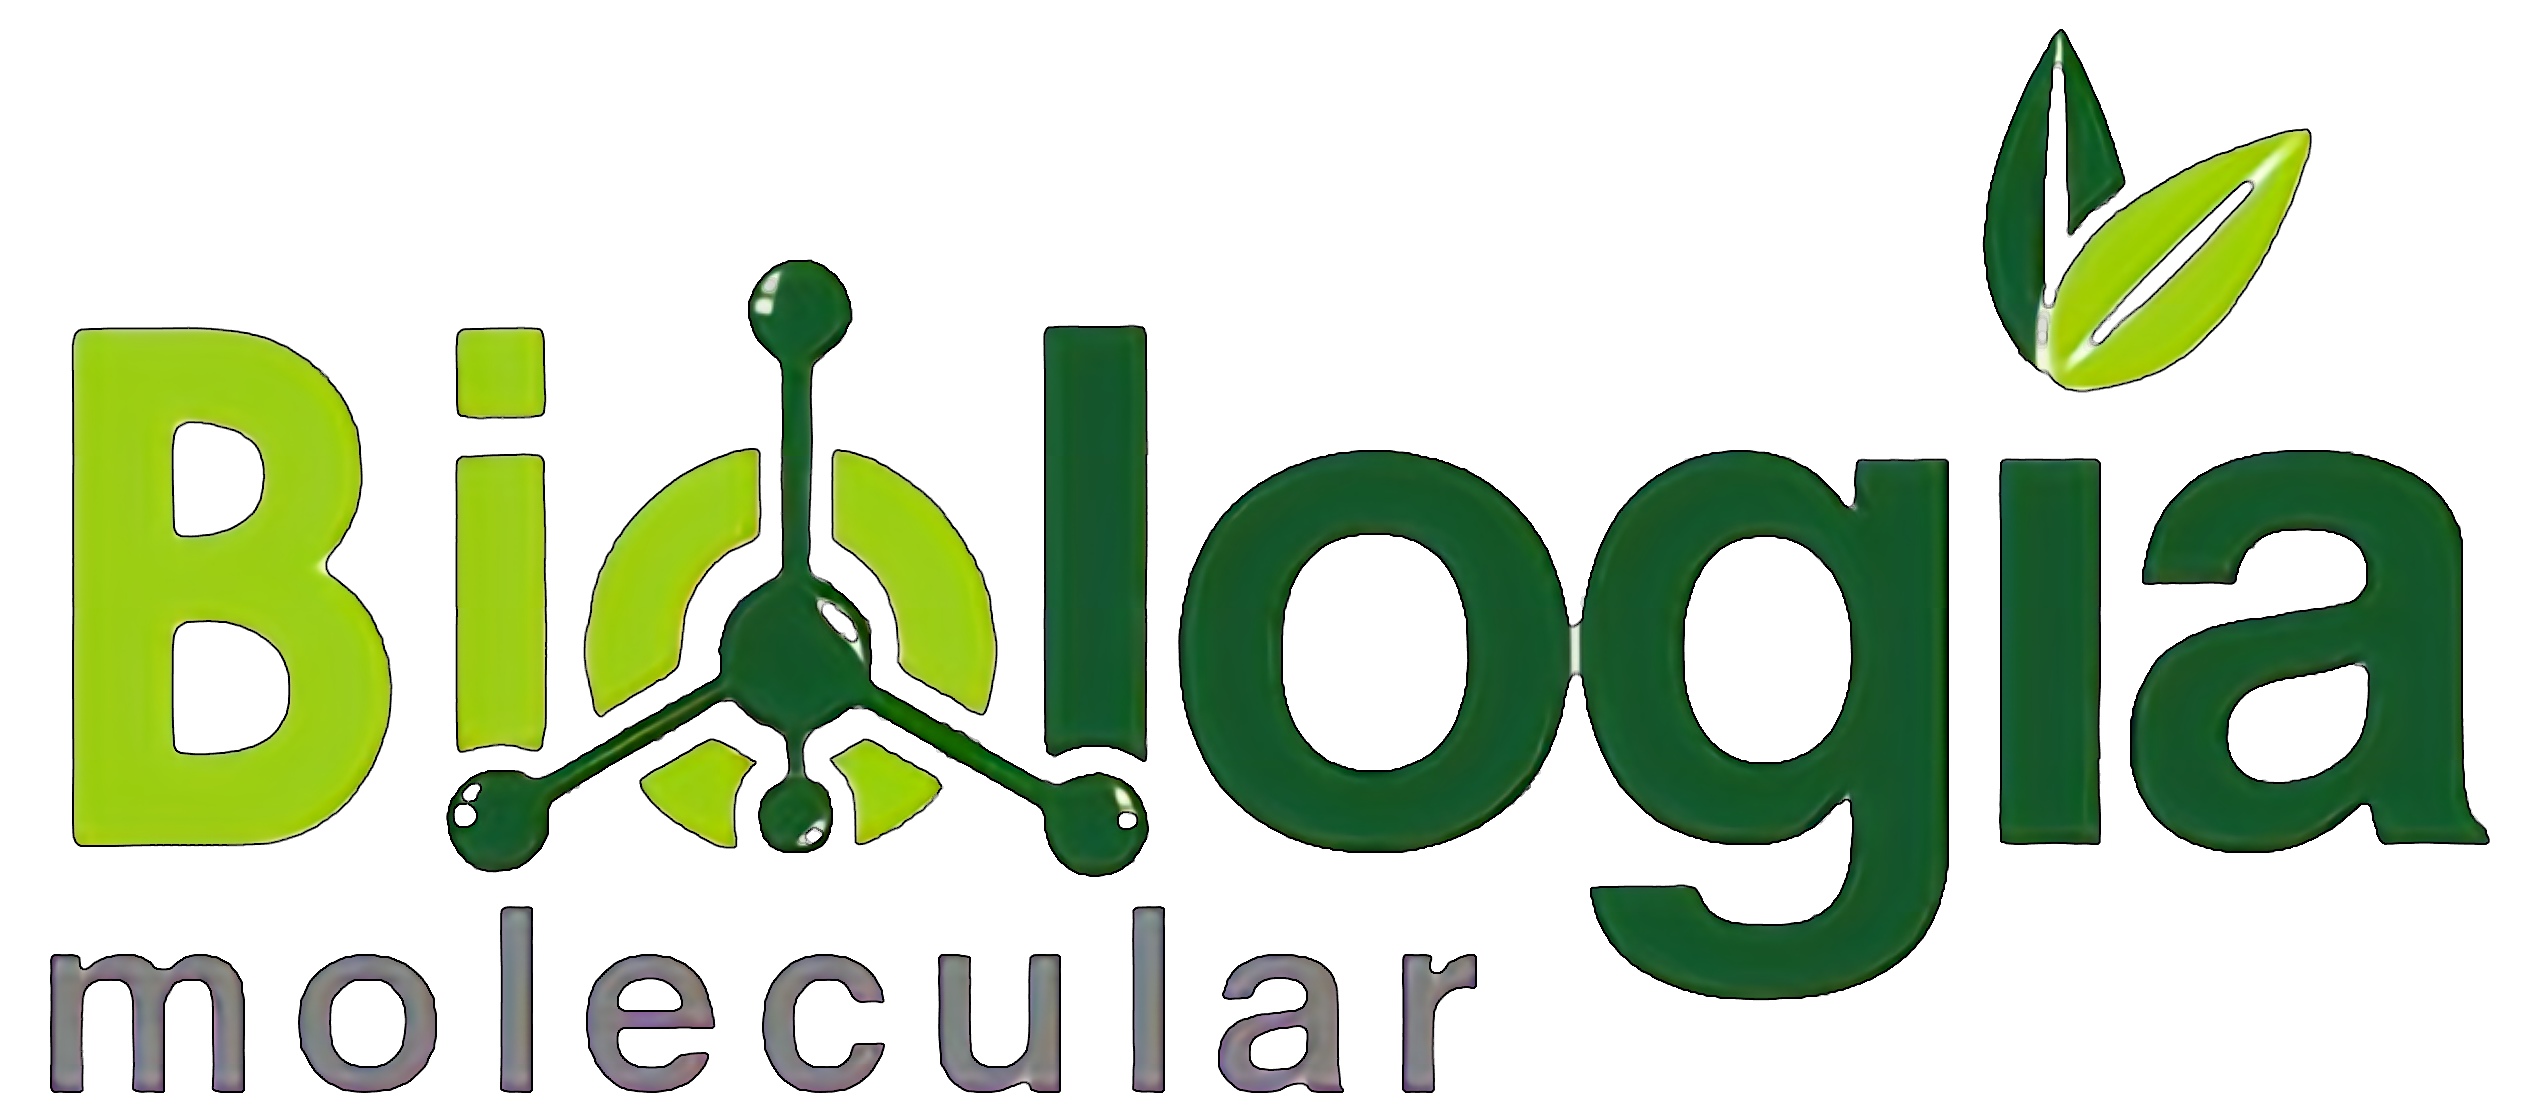
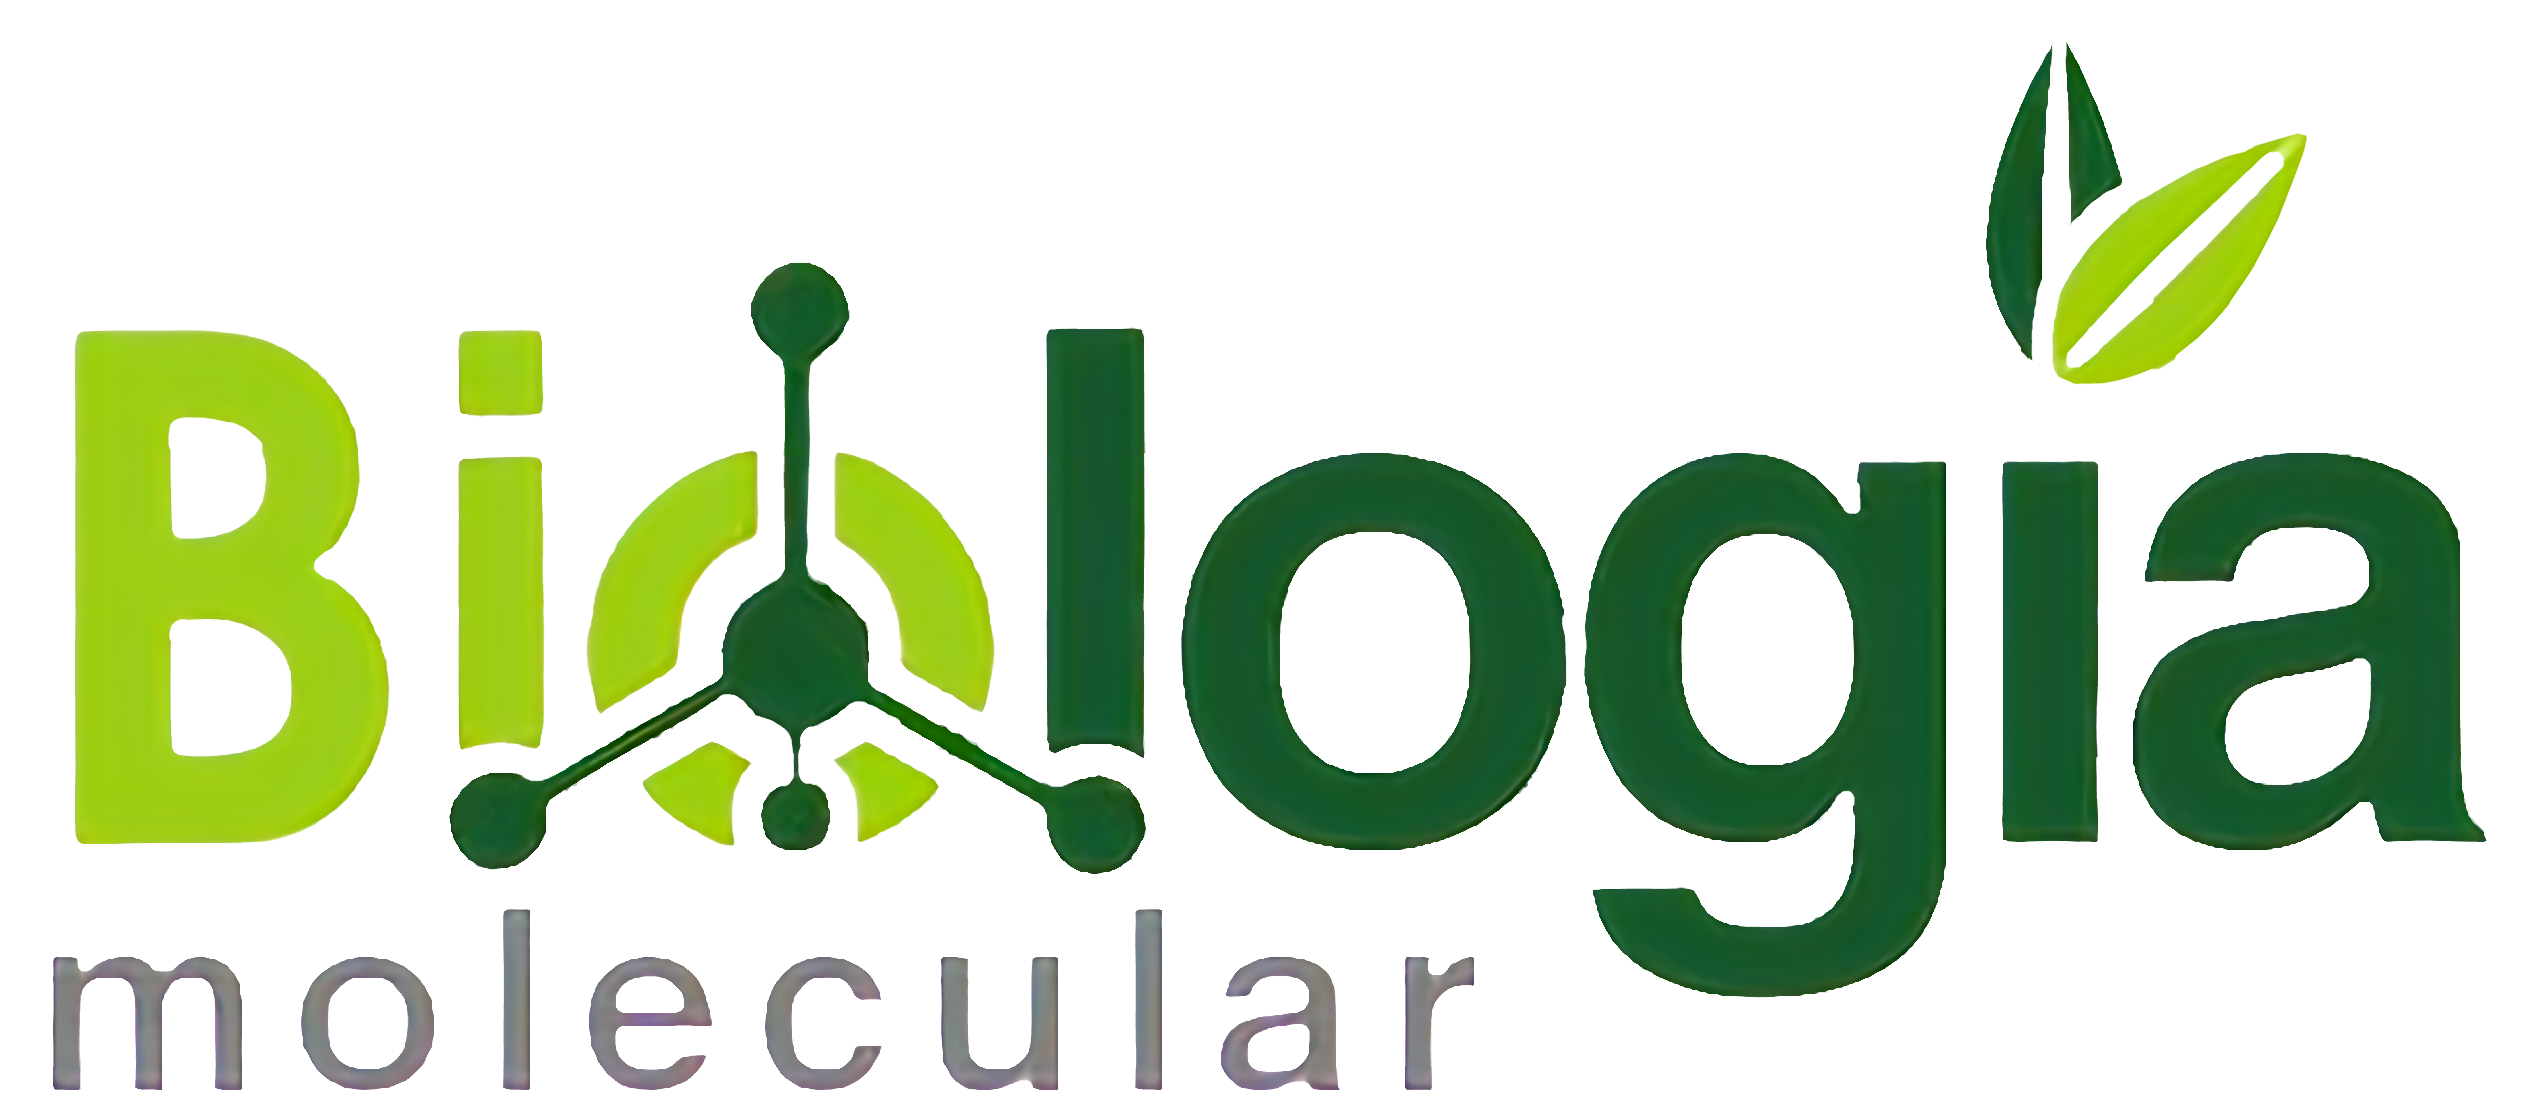
docs(branding): resize biomolc header

diff --git a/README.md b/README.md
@@ -9,10 +9,9 @@ ___
 
 <h1 align="center">
   <a href="https://github.com/quinterol/BIOMOLC-PhurejaMutante">
-    <img alt="BIOMOLC logo" src="./docs/biomolc.png" width="400">
+    <img alt="BIOMOLC logo" src="./docs/biomolc.png" width="200">
   </a>
-  
-  Grupo de Investigación BIOMOLC
+  <br>Grupo de Investigación BIOMOLC</br>
   <br><font size="4"> Universidad Distrital Francisco José de Caldas</font></br>
 
 </h1>
